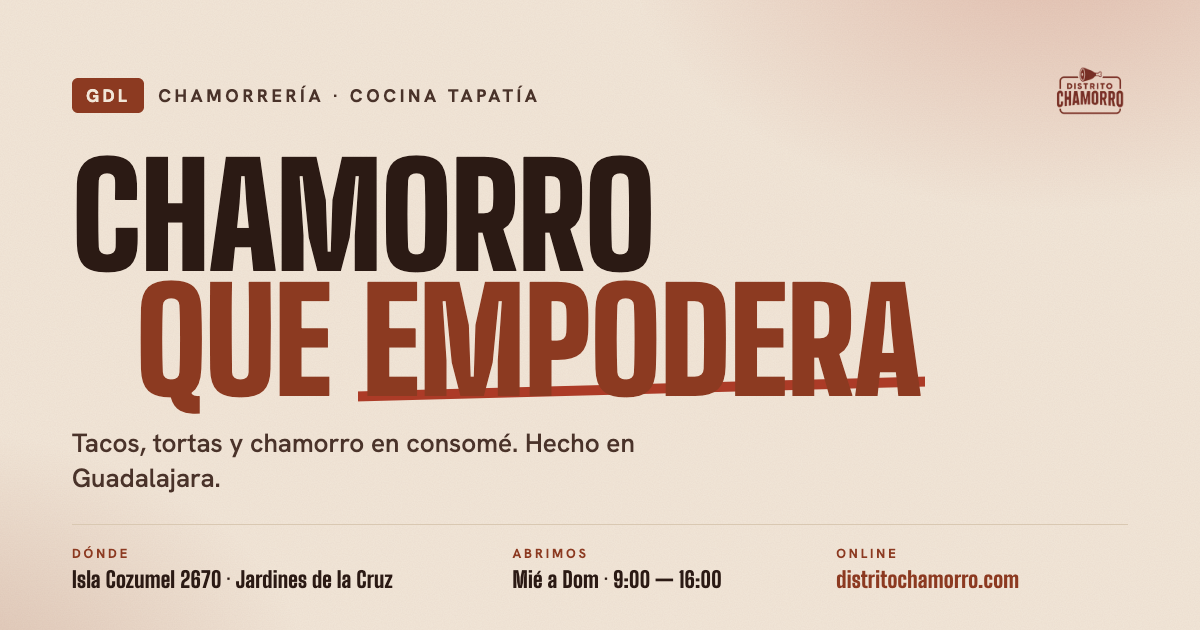
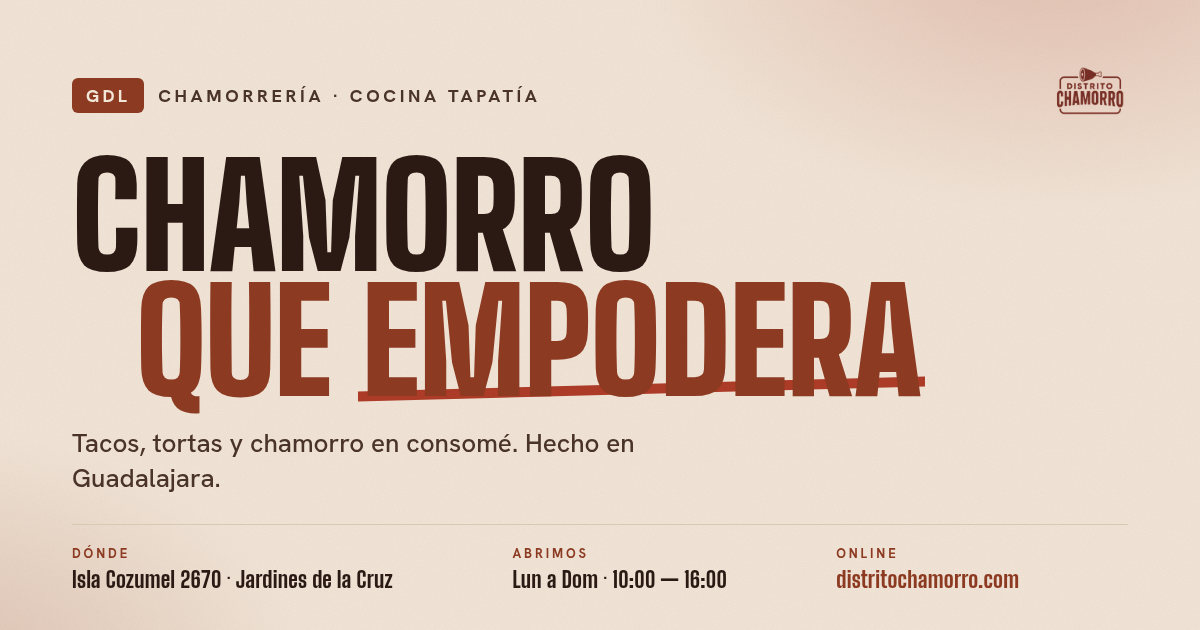
Horario: abrimos lunes a domingo, 10am a 4pm, sin días de descanso

diff --git a/src/data/restaurante.ts b/src/data/restaurante.ts
@@ -3,10 +3,10 @@ import tacosBlanditosImg from '../assets/menu/tacos-blanditos.jpeg';
 import quesamorroImg from '../assets/menu/quesamorro.jpeg';
 
 export const horarios = {
-	dias: 'Miércoles a Domingo',
+	dias: 'Lunes a Domingo',
 	horas: '10:00 AM — 4:00 PM',
-	cerrado: 'Lunes y Martes',
-	diasSemana: ['Wednesday', 'Thursday', 'Friday', 'Saturday', 'Sunday'],
+	descanso: 'Ni un día de descanso',
+	diasSemana: ['Monday', 'Tuesday', 'Wednesday', 'Thursday', 'Friday', 'Saturday', 'Sunday'],
 	apertura: '10:00',
 	cierre: '16:00',
 };

diff --git a/src/pages/index.md.ts b/src/pages/index.md.ts
@@ -30,7 +30,7 @@ Chamorro entero con consomé, tacos y tortas de chamorro en Jardines de la Cruz,
 ## Horarios del local
 
 - ${horarios.dias}: ${horarios.horas} (hora local de Guadalajara, America/Mexico_City).
-- Cerrado: ${horarios.cerrado}.
+- Abrimos todos los días, sin días de descanso.
 
 ## Menú
 

diff --git a/README.md b/README.md
@@ -3,7 +3,7 @@
 Sitio web de **Distrito Chamorro** — chamorrería en Guadalajara, Jalisco. "Chamorro que empodera."
 
 Isla Cozumel 2670, Col. Jardines de la Cruz, Guadalajara, Jal.
-Miércoles a Domingo · 10:00 AM – 4:00 PM
+Lunes a Domingo · 10:00 AM – 4:00 PM
 
 ## Stack
 
